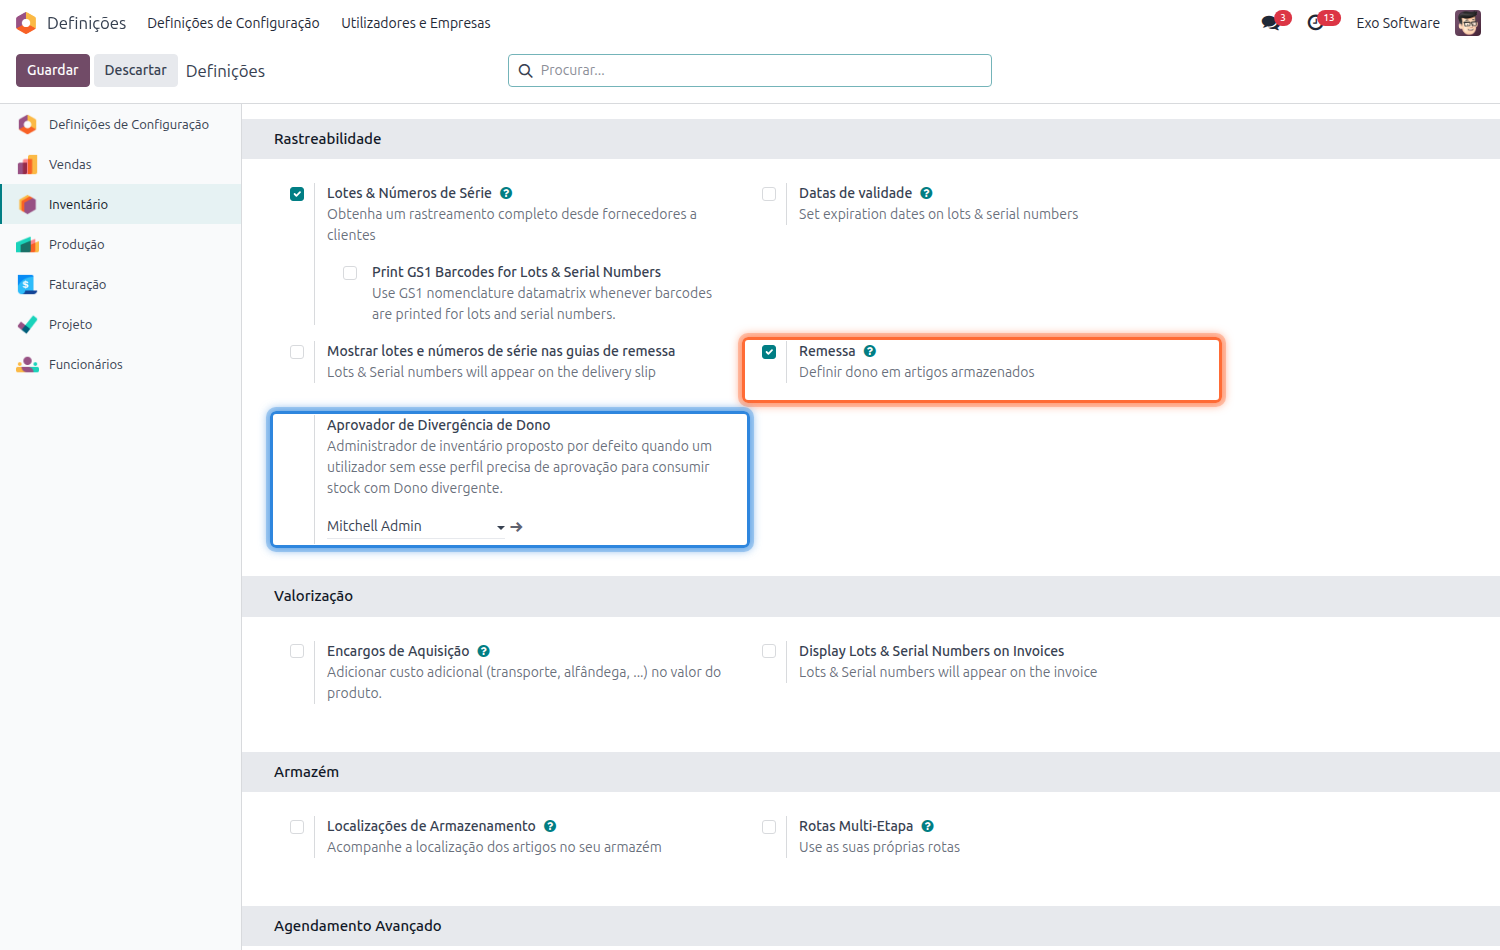
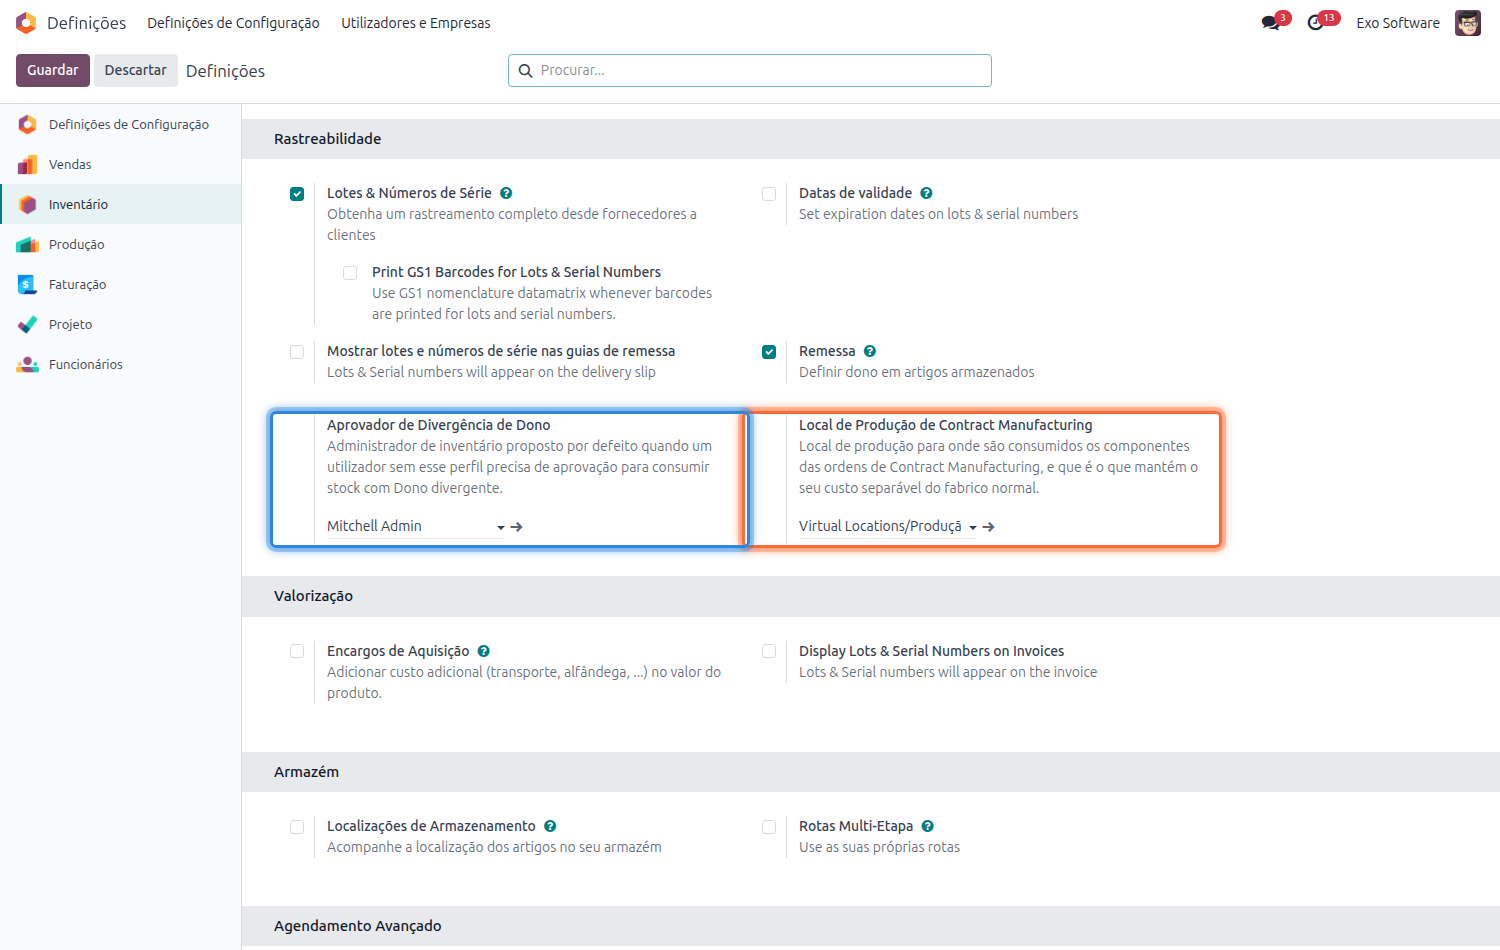
[IMP] other_apps/manufacturing: document the per-company production location setting

Changed region(s): [[0.4907, 0.3358, 0.828, 0.6105]]

diff --git a/content/applications/other_apps/manufacturing.rst b/content/applications/other_apps/manufacturing.rst
@@ -53,6 +53,12 @@ produção normal no fecho do período.
 .. image:: manufacturing/v18_cm_location.png
    :align: center
 
+Qual a localização a usar é uma definição por empresa, **Local de Produção de Contract Manufacturing**, que fica ao lado
+do aprovador nas definições de Inventário. Vem preenchida de origem com a localização que a app criou, pelo que em
+utilização normal não tem aqui nada a fazer; se preferir apontar a uma localização sua, basta trocá-la. Quem decide se
+uma ordem usa esta localização ou a de produção normal é a Lista de Materiais da ordem, e não a configuração do artigo,
+pelo que não há nada a definir artigo a artigo.
+
 E cria um tipo de operação de fabrico dedicado, **Contract Manufacturing**, por cada armazém, com sequência própria.
 Encontra-o na app de **Inventário**, menu de **Configuração**, opção :menuselection:`Gestão de armazém --> Tipos de
 Operações`.
@@ -68,9 +74,9 @@ Operações`.
 
 Configurações
 -------------
-Toda a configuração vive na **Lista de Materiais**. Na app de **Produção** vá ao menu de **Artigos** e selecione a opção
-**Listas de Materiais**, abra a lista do artigo que produz para o cliente e ative a opção **Contract Manufacturing**.
-O campo **Dono** passa a ser obrigatório: indique aí o cliente dono da mercadoria.
+Tirando as duas definições acima, a configuração vive toda na **Lista de Materiais**. Na app de **Produção** vá ao
+menu de **Artigos**, selecione a opção **Listas de Materiais**, abra a lista do artigo que produz para o cliente e ative
+a opção **Contract Manufacturing**. O campo **Dono** passa a ser obrigatório: indique aí o cliente dono da mercadoria.
 
 Na tabela de componentes assinale, na coluna **Fornecido pelo Cliente**, as linhas dos componentes que o cliente lhe
 entrega. As restantes seguem o fluxo normal do Odoo, sem qualquer alteração.
